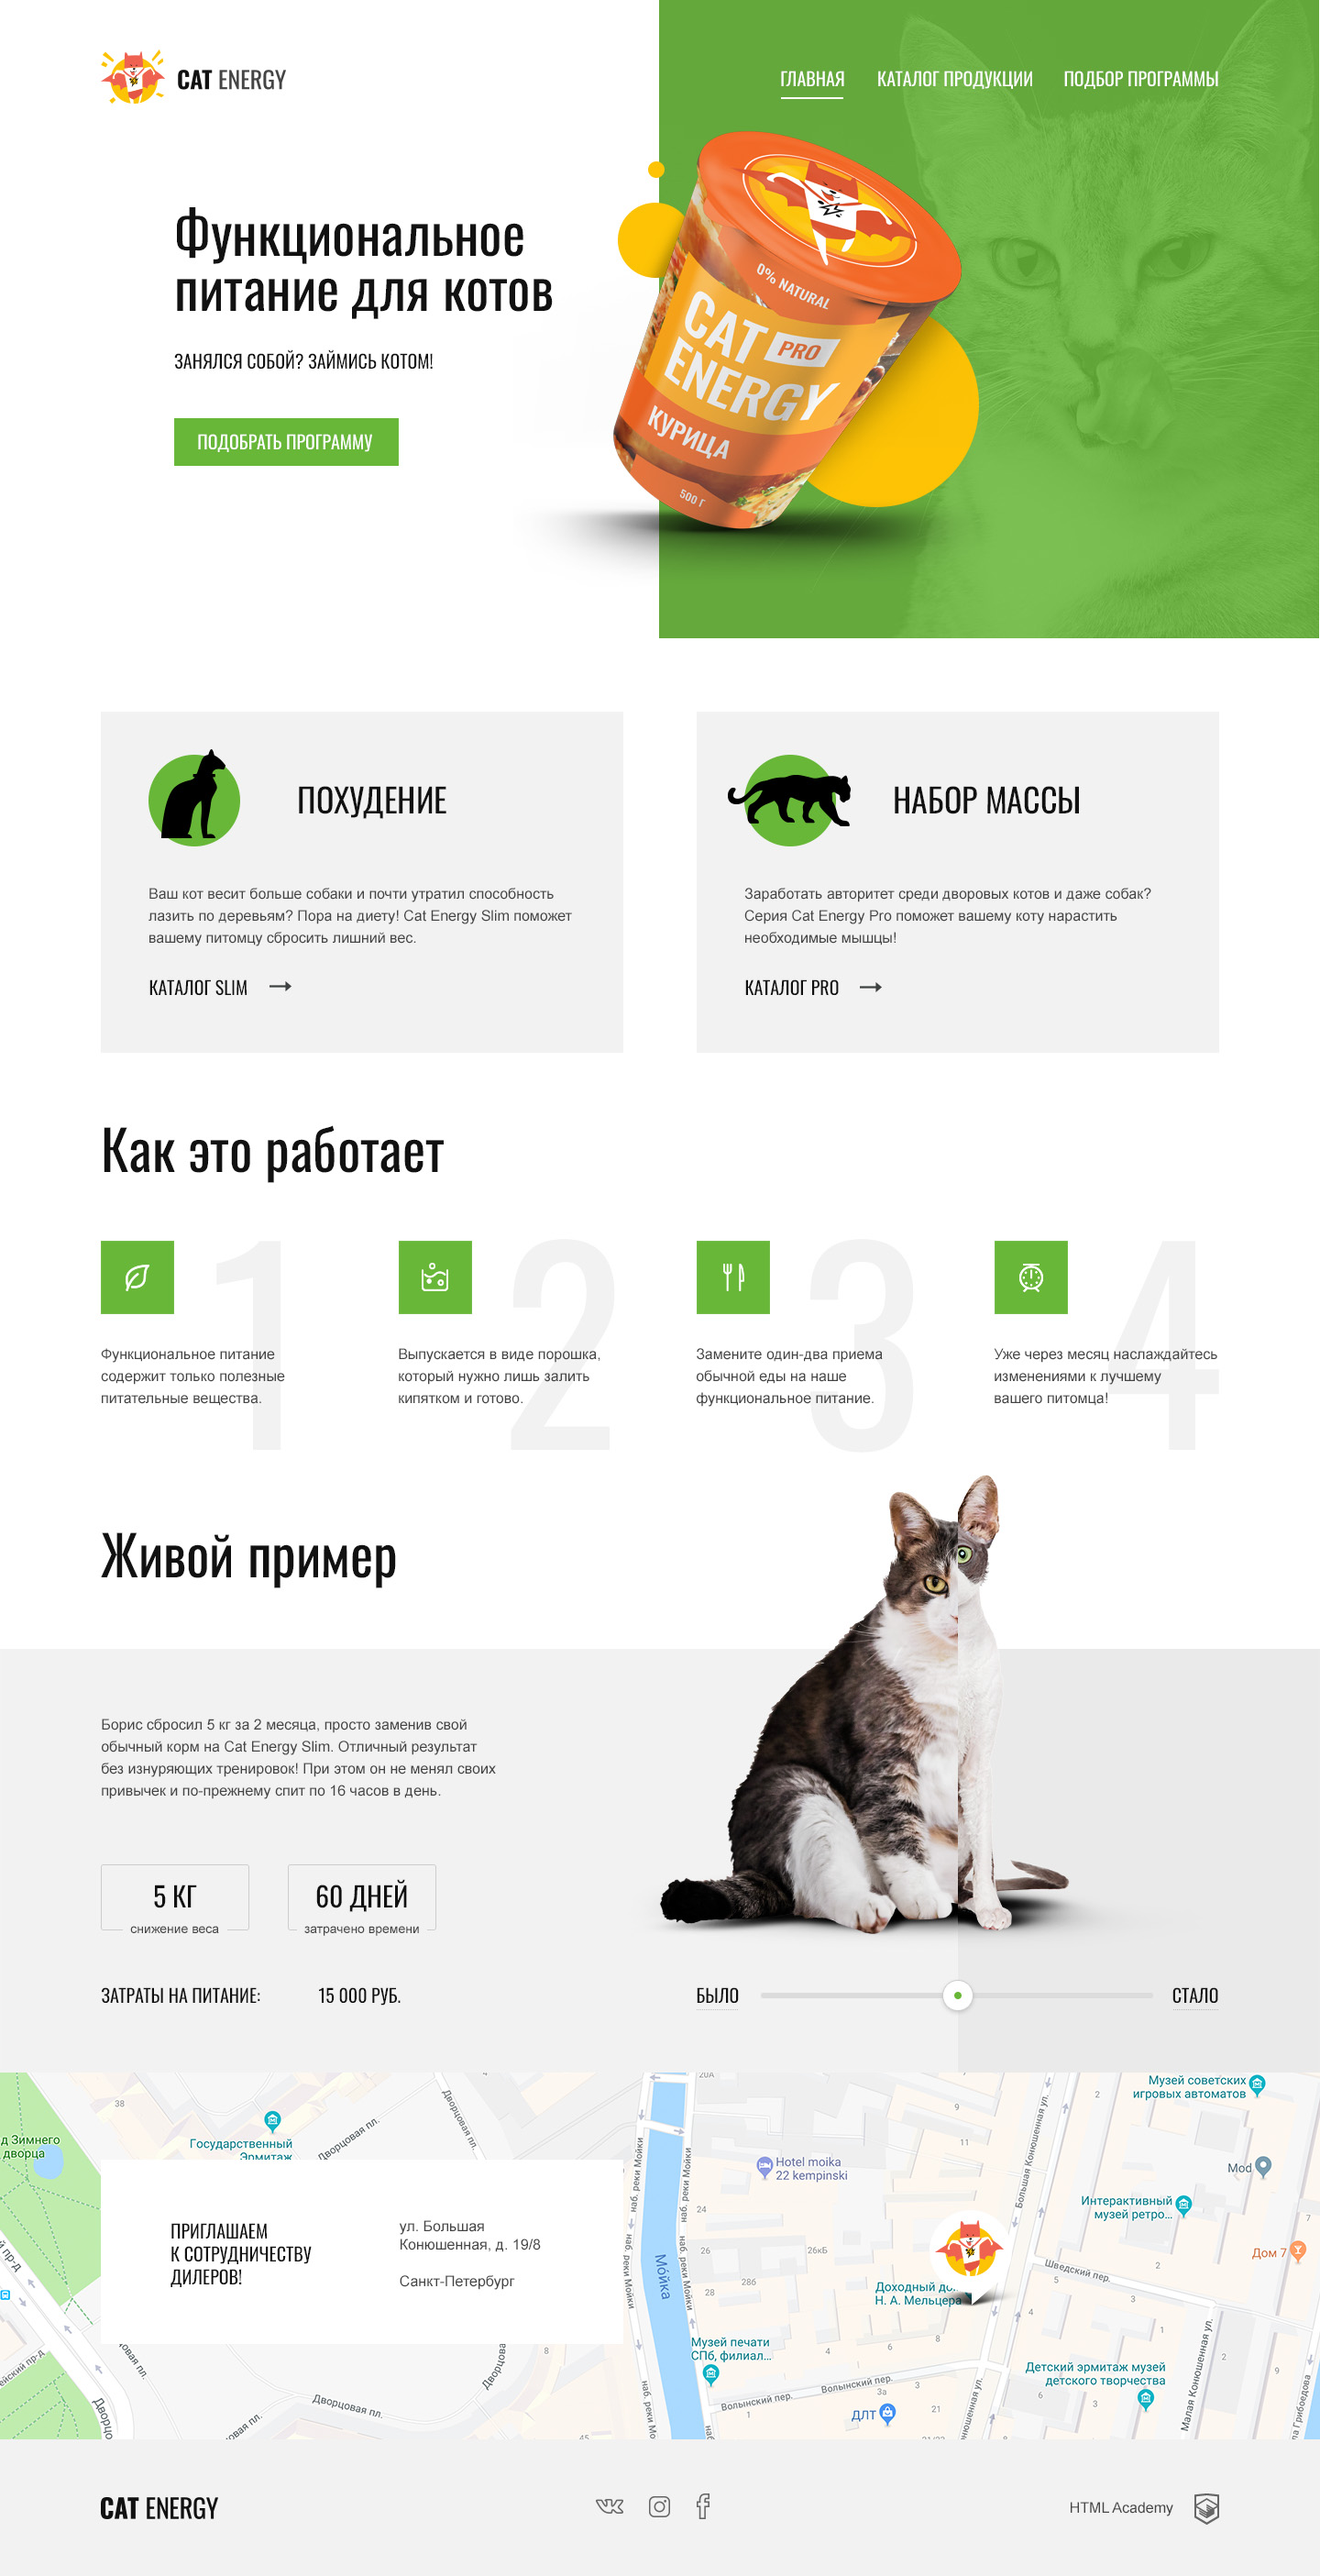
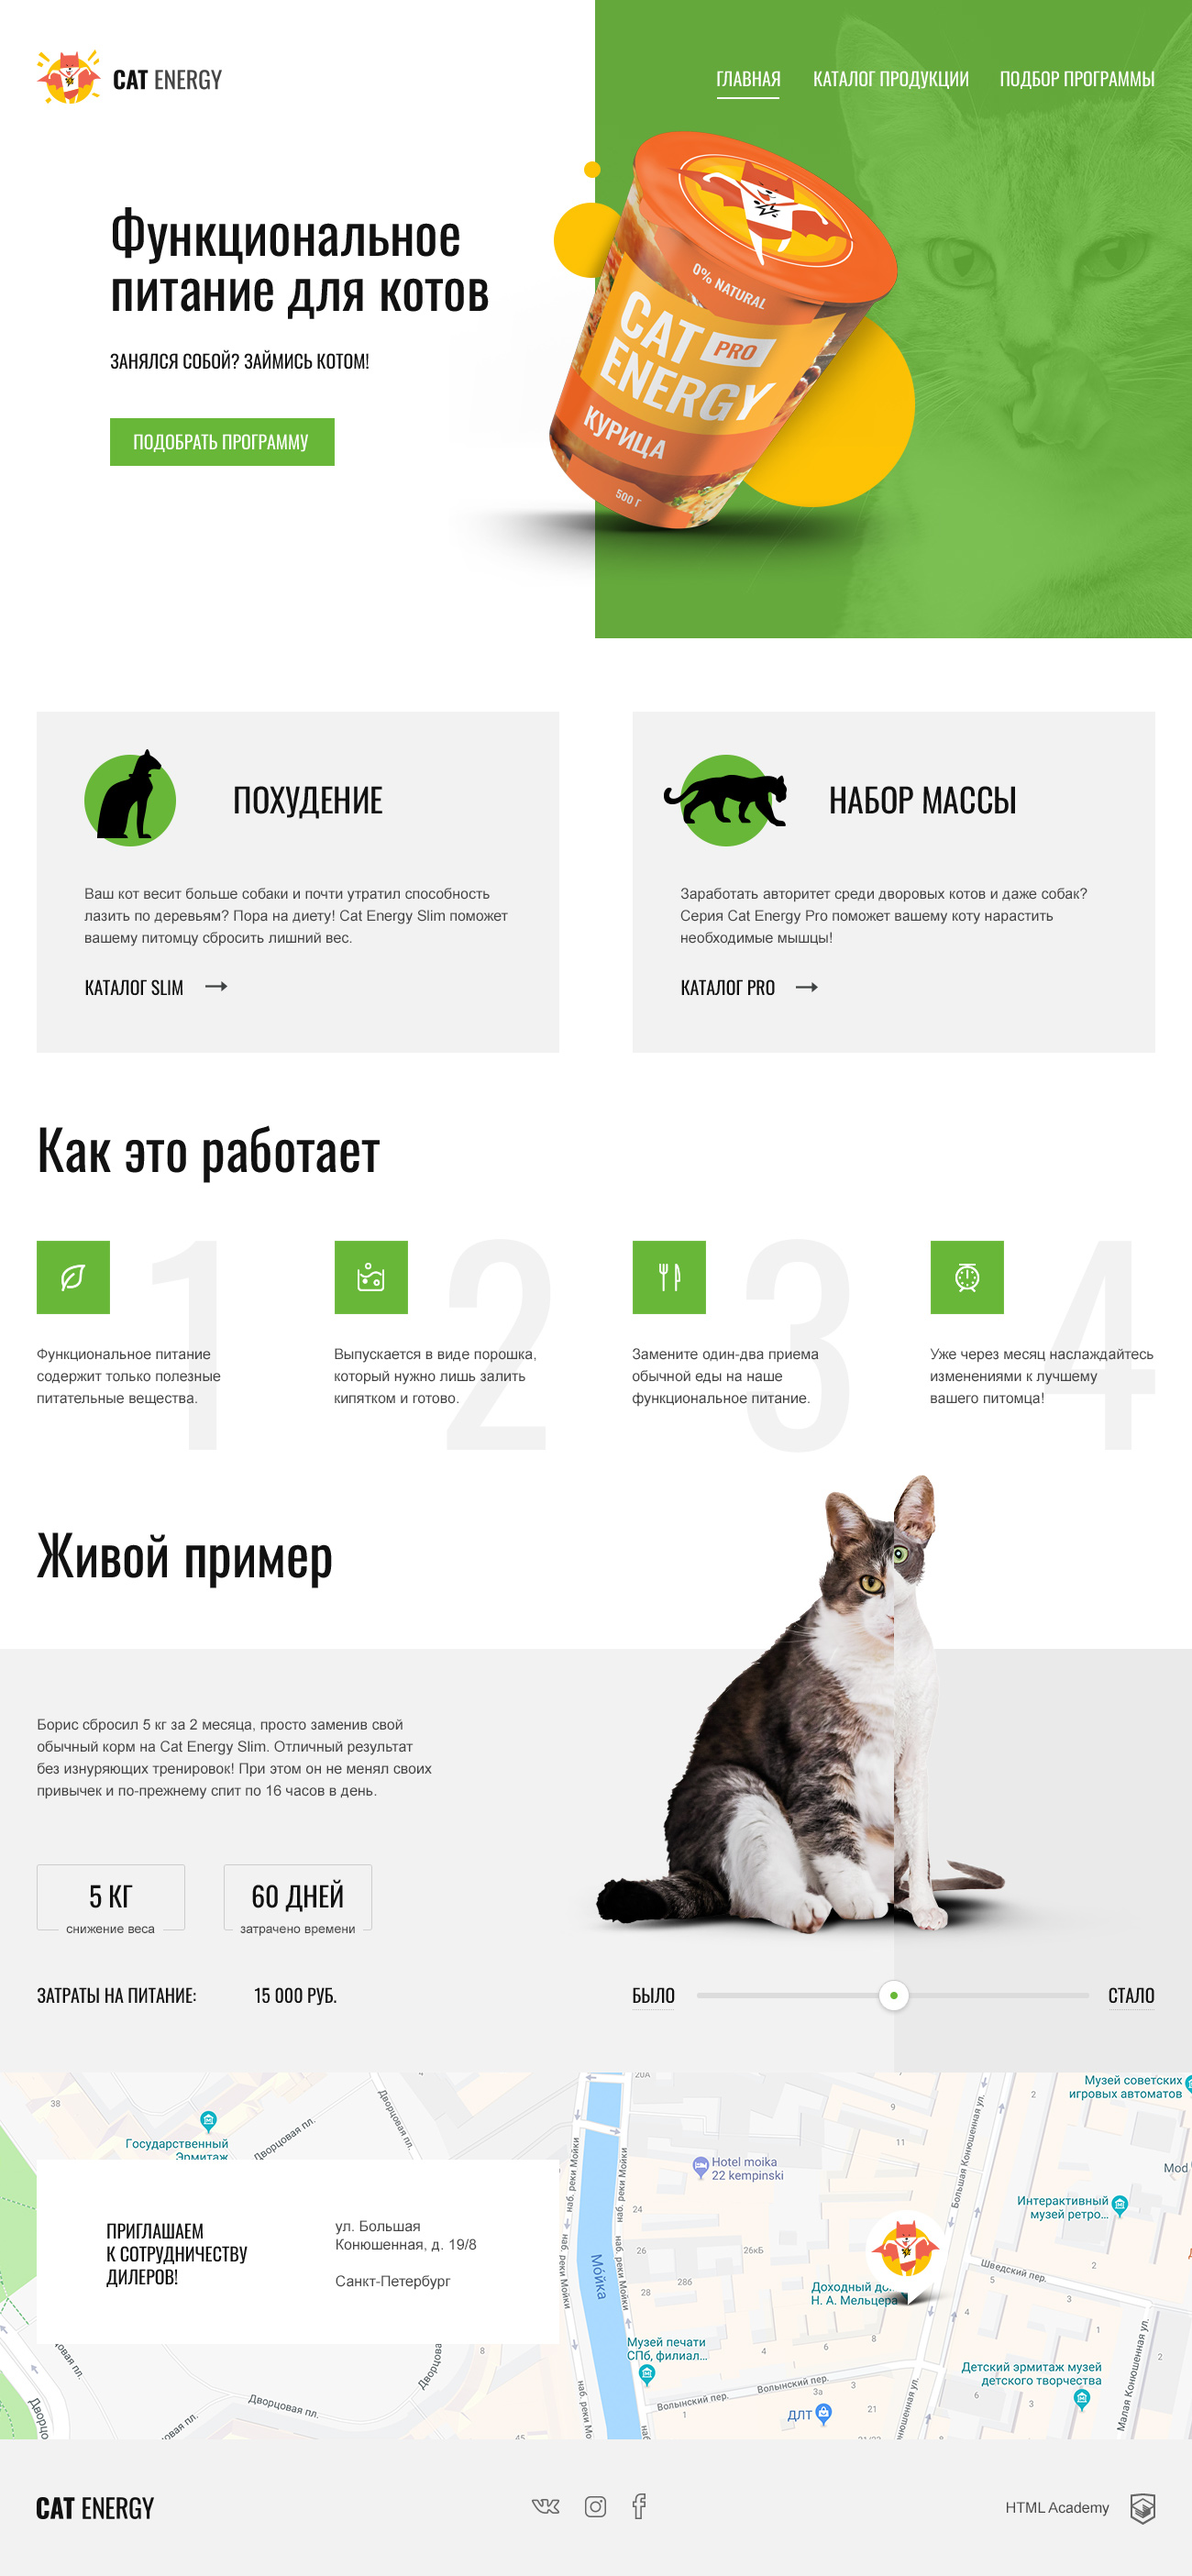
fix desktop width

diff --git a/source/index.html b/source/index.html
@@ -15,22 +15,22 @@
   <style>
     HTML {
       background-repeat: no-repeat;
-      background-position:  50% 0;
+      background-position: 50% 0;
       /* Mobile layout by default */
-      background-image: url( "img/320.jpg" );
+      background-image: url("img/320.jpg");
     }
     /* Tablet */
-    @media ( min-width: 768px ) {
+    @media (min-width: 768px) {
       HTML {
         /* Tablet layout */
-        background-image: url( "img/pixelGlass/cat-energy-index-desktop.png" );
+        background-image: url("img/pixelGlass/cat-energy-index-desktop.png");
       }
     }
     /* Desktop */
-    @media ( min-width: 1300px ) {
+    @media (min-width: 1300px) {
       HTML {
         /* Desktop layout */
-        background-image: url("img/pixelGlass/cat-energy-index-desktop.jpg" );
+        background-image: url("img/pixelGlass/cat-energy-index-desktop.jpg");
       }
     }
   </style>

diff --git a/source/sass/blocks/slider.scss b/source/sass/blocks/slider.scss
@@ -221,6 +221,10 @@
     margin-bottom: 32px;
   }
 
+  .slider__image {
+    width: 650px;
+  }
+
   .slider__buttons {
     padding-right: 40px;
     padding-left: 40px;
@@ -237,9 +241,9 @@
   .slider__images-container:first-of-type {
     position: relative;
     top: -190px;
-    left: 0px;
+    left: 0;
 
-    width: 680px;
+    width: 650px;
     height: 515px;
 
     object-fit: cover;
@@ -248,9 +252,9 @@
   .slider__images-container:last-of-type {
     position: relative;
     top: -190px;
-    left: 0px;
+    left: 0;
 
-    width: 680px;
+    width: 650px;
     height: 515px;
   }
 
@@ -263,11 +267,13 @@
   }
 
   .slider__image-before-poly {
+    width: 325px;
     object-fit: cover;
     object-position: -40px;
   }
 
   .slider__image-after-poly {
+    width: 325px;
     object-fit: cover;
     object-position: 100%;
   }

diff --git a/source/sass/blocks/example.scss b/source/sass/blocks/example.scss
@@ -68,10 +68,6 @@
     background: linear-gradient(to right, #f2f2f2 0, #f2f2f2 50%, #eaeaea 50%, #eaeaea 100%);
   }
 
-  // .example__slider-background {
-  //   background: linear-gradient(to right, transparent 0, transparent 50%, #eaeaea 50%, #eaeaea 100%);
-  // }
-
   .example__wrapper {
     margin-bottom: 33px;
     padding-right: 30px;

diff --git a/source/sass/base.scss b/source/sass/base.scss
@@ -1,6 +1,6 @@
 body {
-  margin: 0 auto;
   min-width: 320px;
+  width: 100%;
 }
 
 main {
@@ -15,4 +15,10 @@ a {
 img {
   max-width: 100%;
   height: auto;
+}
+
+@media (min-width: 1300px) {
+  html {
+    min-width: 1300px;
+  }
 }

diff --git a/source/sass/blocks/page-main.scss b/source/sass/blocks/page-main.scss
@@ -148,7 +148,6 @@
     display: flex;
 
     box-sizing: border-box;
-    width: 100%;
 
     border: none;
     background: linear-gradient(to top, transparent 0, transparent 463px, #ffffff 463px, #ffffff 100%);

diff --git a/source/sass/blocks/categories.scss b/source/sass/blocks/categories.scss
@@ -15,7 +15,7 @@
 @media (min-width: $largeDeviceWidth) {
   .categories {
     padding-top: 80px;
-    padding-right: 14px;
+    padding-right: 40px;
     padding-left: 40px;
   }
 

diff --git a/source/sass/blocks/site-grid.scss b/source/sass/blocks/site-grid.scss
@@ -36,6 +36,8 @@
       background-repeat: no-repeat;
       background-position: 111%;
       background-size: 55%;
+
+      object-fit: cover;
     }
   }
 }

diff --git a/source/sass/blocks/page-header.scss b/source/sass/blocks/page-header.scss
@@ -110,7 +110,6 @@
     height: 59px;
   }
 
-
   .page-header__main-menu {
     width: 480px;
     max-width: 480px;
